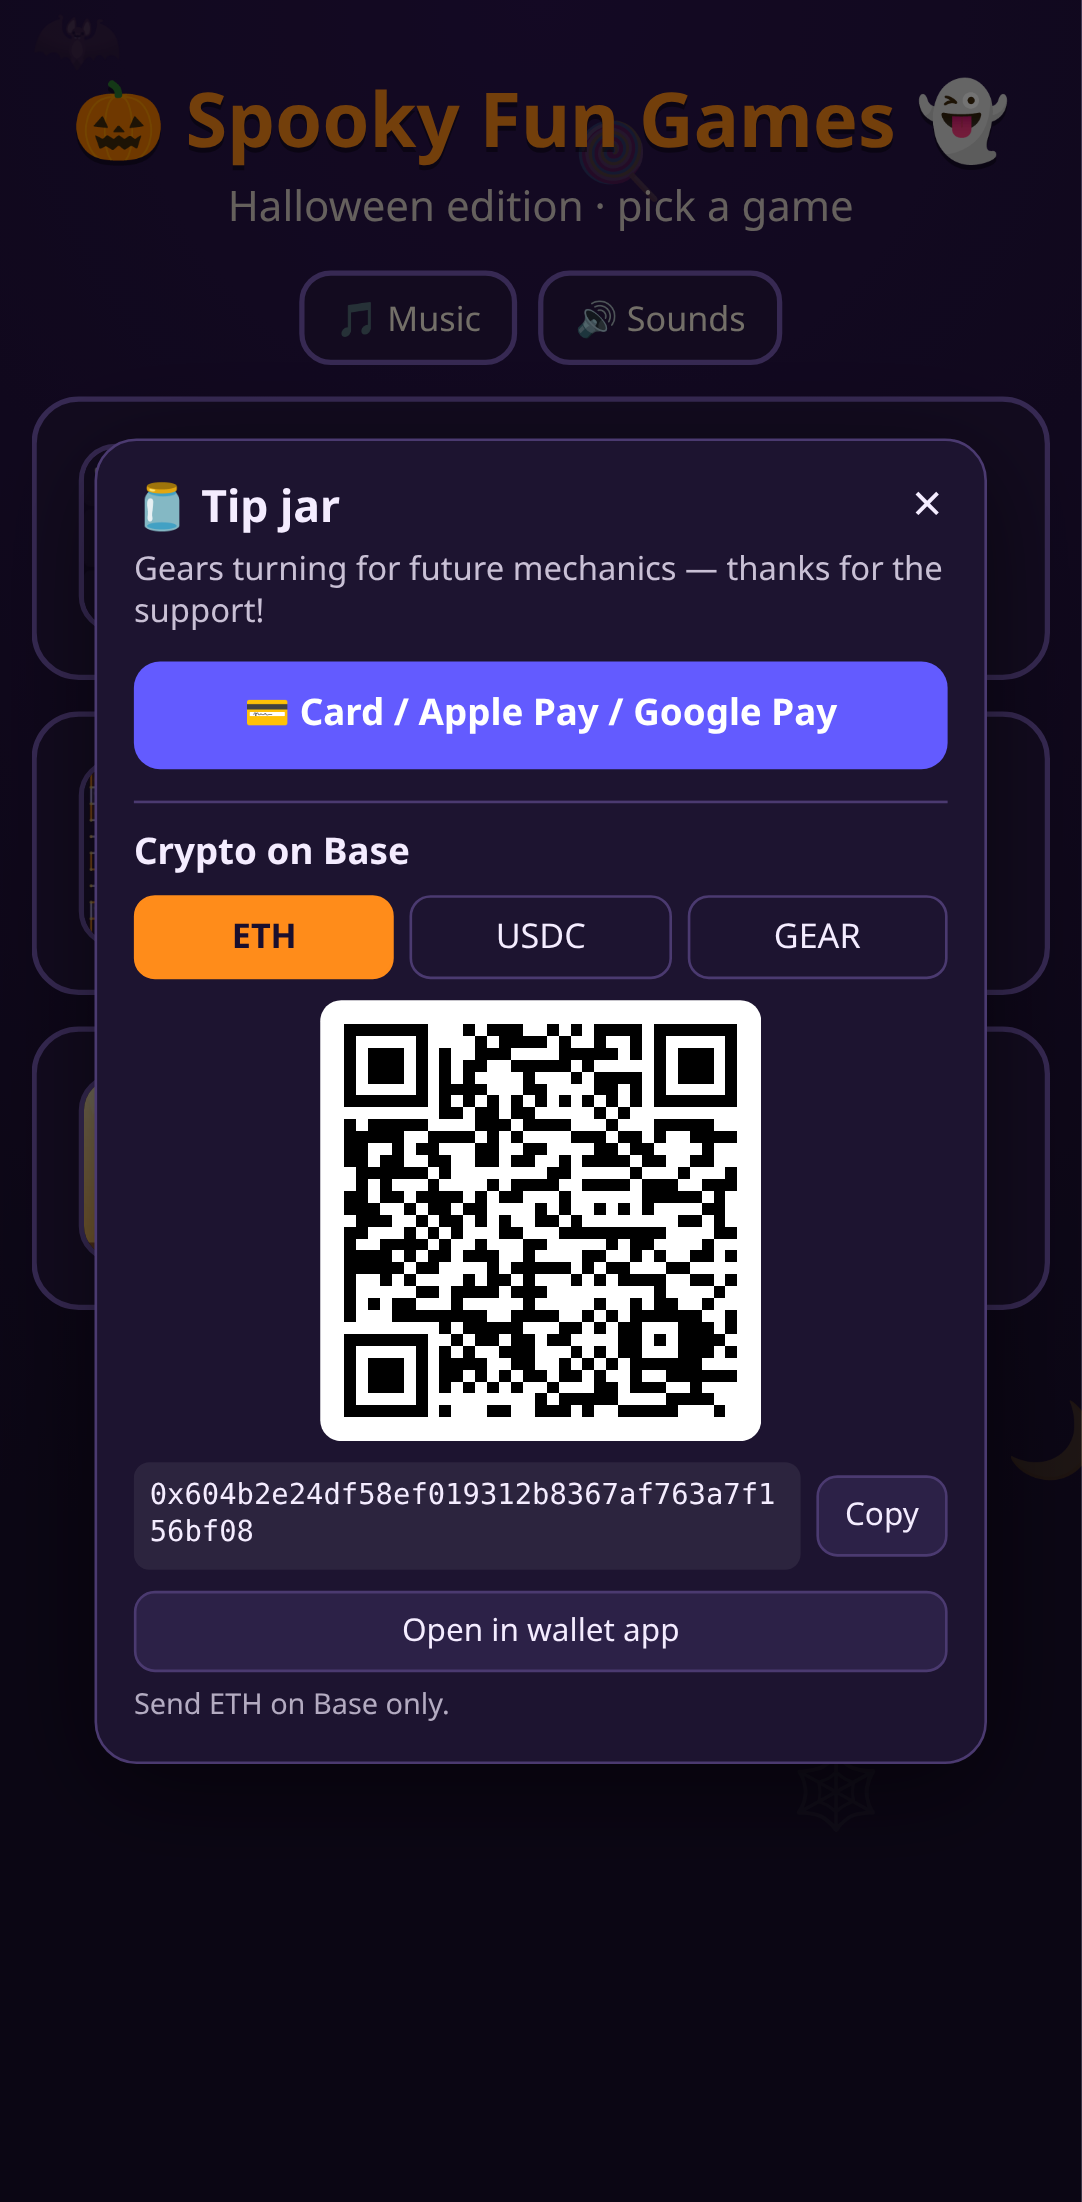
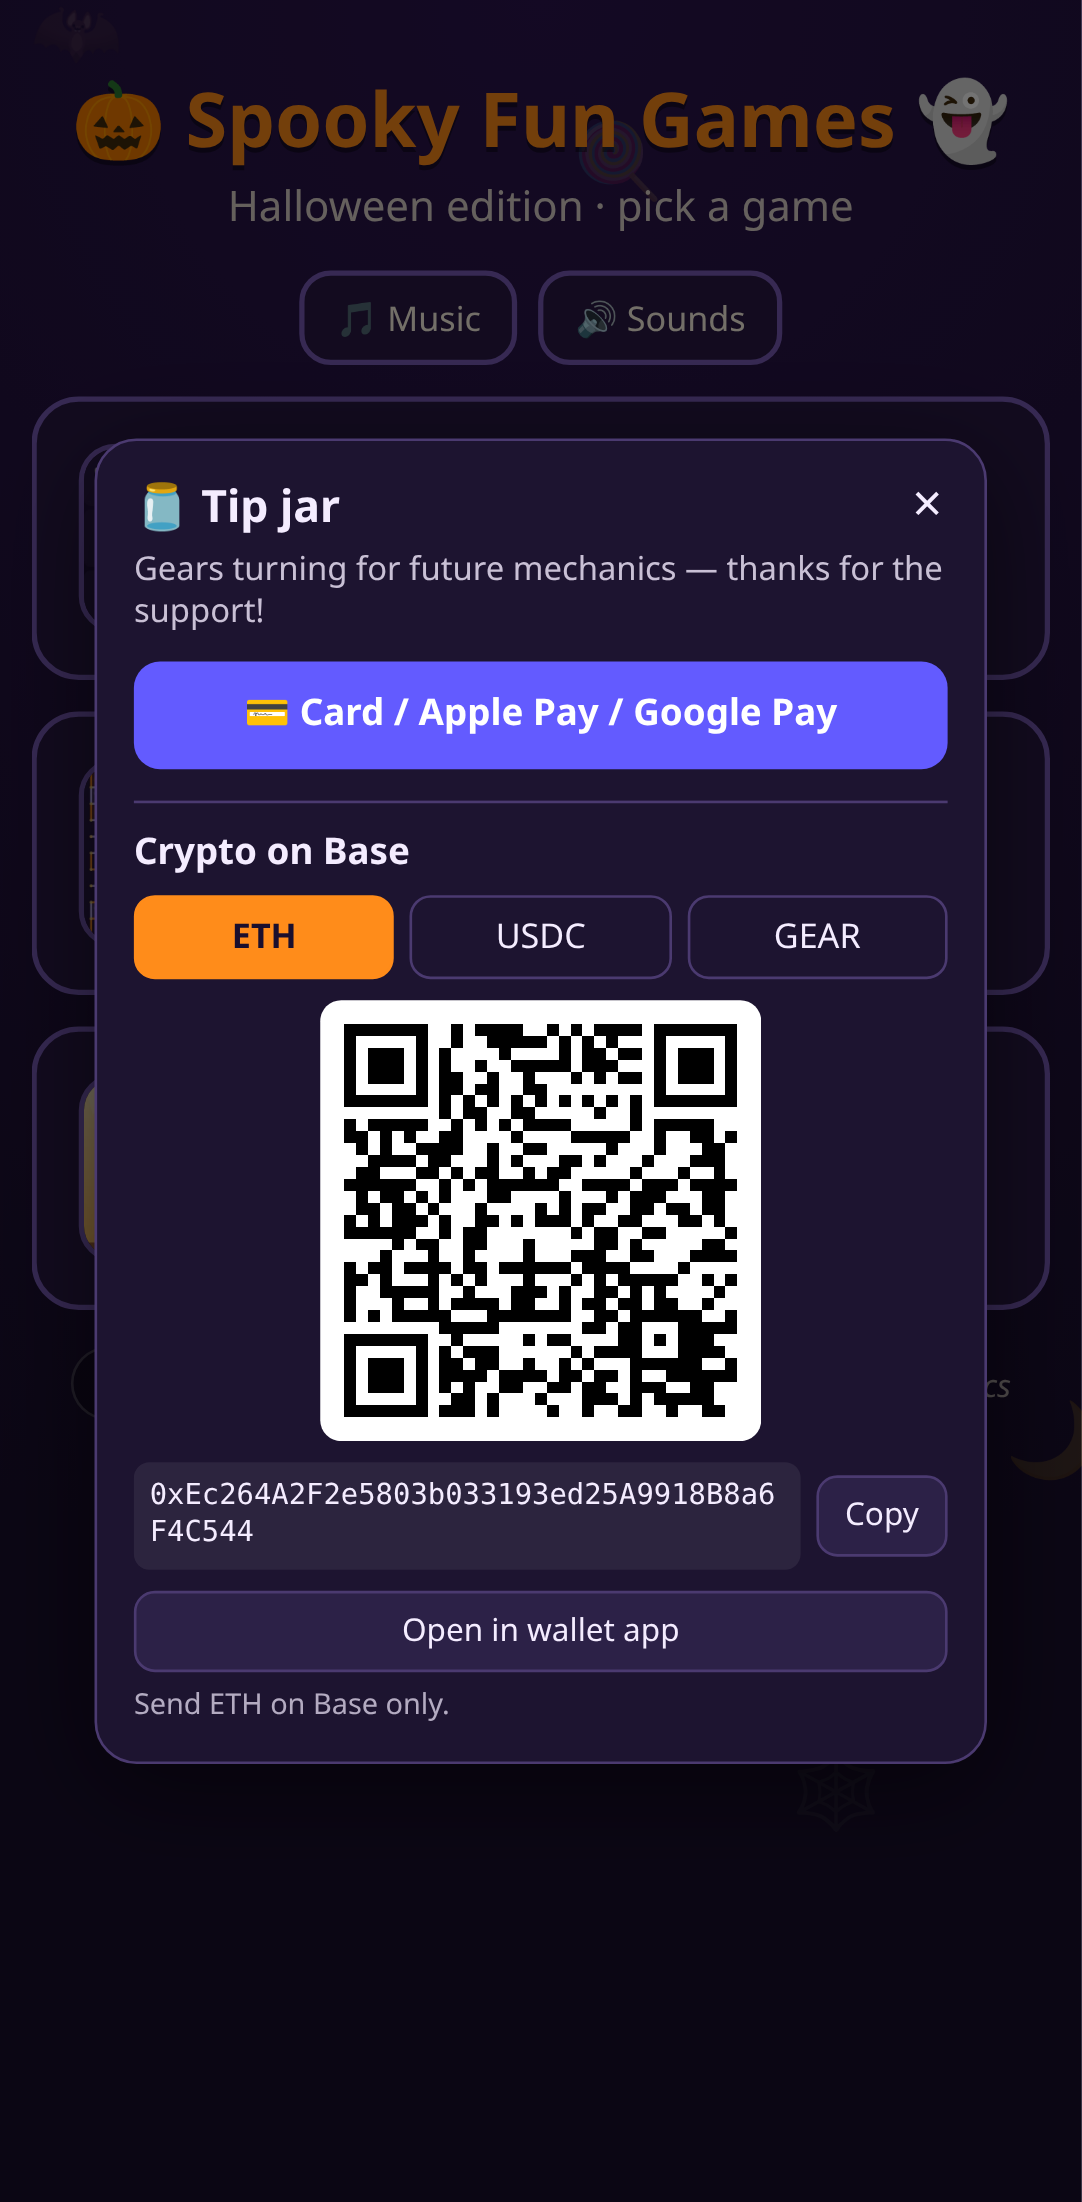
Tip jar: switch tip wallet to 0xEc264A2F2e5803b033193ed25A9918B8a6F4C544

Changed region(s): [[0.305, 0.4632, 0.488, 0.6794], [0.488, 0.4632, 0.671, 0.6794], [0.1525, 0.6485, 0.244, 0.7103]]

diff --git a/src/main.ts b/src/main.ts
@@ -4,7 +4,7 @@ import { GAMES, type GameHandle, type Mode, type Level } from "./games";
 import { h, applyTheme, audioToggles } from "./ui";
 import { mountTipJar } from "./tipjar/tipjar";
 const TIP_STRIPE = "https://buy.stripe.com/cNi00labZ2y98uc20v9oc00";
-const TIP_WALLET = "0x604b2e24df58ef019312b8367af763a7f156bf08";
+const TIP_WALLET = "0xEc264A2F2e5803b033193ed25A9918B8a6F4C544";
 import { useSounds, unlockOnFirstTap } from "./audio";
 
 const theme = pickTheme();

diff --git a/tests/tipjar.test.ts b/tests/tipjar.test.ts
@@ -1,6 +1,6 @@
 import { describe, it, expect } from "vitest";
 import { eip681, qrSvg, BASE_TOKENS } from "../src/tipjar/tipjar";
-const W = "0x604b2e24df58ef019312b8367af763a7f156bf08";
+const W = "0xEc264A2F2e5803b033193ed25A9918B8a6F4C544";
 describe("tipjar", () => {
   it("builds EIP-681 URIs", () => {
     expect(eip681(W, 8453, BASE_TOKENS[0])).toBe(`ethereum:${W}@8453`);

diff --git a/public/tipjar/README.md b/public/tipjar/README.md
@@ -12,7 +12,7 @@ Copy `tipjar.ts` + `qrcodegen.ts` into your project:
 import { mountTipJar } from "./tipjar/tipjar";
 mountTipJar(document.getElementById("tips")!, {
   stripeUrl: "https://buy.stripe.com/cNi00labZ2y98uc20v9oc00",
-  wallet: "0x604b2e24df58ef019312b8367af763a7f156bf08",
+  wallet: "0xEc264A2F2e5803b033193ed25A9918B8a6F4C544",
 });
 ```
 In React: call it in a `useEffect` on a ref and return `() => handle.destroy()`.
@@ -25,7 +25,7 @@ Copy `public/tipjar/tipjar.js` (built by `npm run build:tipjar`):
 <script>
   TipJar.mountTipJar(document.getElementById("tips"), {
     stripeUrl: "https://buy.stripe.com/cNi00labZ2y98uc20v9oc00",
-    wallet: "0x604b2e24df58ef019312b8367af763a7f156bf08"
+    wallet: "0xEc264A2F2e5803b033193ed25A9918B8a6F4C544"
   });
 </script>
 ```

diff --git a/src/tipjar/README.md b/src/tipjar/README.md
@@ -12,7 +12,7 @@ Copy `tipjar.ts` + `qrcodegen.ts` into your project:
 import { mountTipJar } from "./tipjar/tipjar";
 mountTipJar(document.getElementById("tips")!, {
   stripeUrl: "https://buy.stripe.com/cNi00labZ2y98uc20v9oc00",
-  wallet: "0x604b2e24df58ef019312b8367af763a7f156bf08",
+  wallet: "0xEc264A2F2e5803b033193ed25A9918B8a6F4C544",
 });
 ```
 In React: call it in a `useEffect` on a ref and return `() => handle.destroy()`.
@@ -25,7 +25,7 @@ Copy `public/tipjar/tipjar.js` (built by `npm run build:tipjar`):
 <script>
   TipJar.mountTipJar(document.getElementById("tips"), {
     stripeUrl: "https://buy.stripe.com/cNi00labZ2y98uc20v9oc00",
-    wallet: "0x604b2e24df58ef019312b8367af763a7f156bf08"
+    wallet: "0xEc264A2F2e5803b033193ed25A9918B8a6F4C544"
   });
 </script>
 ```
